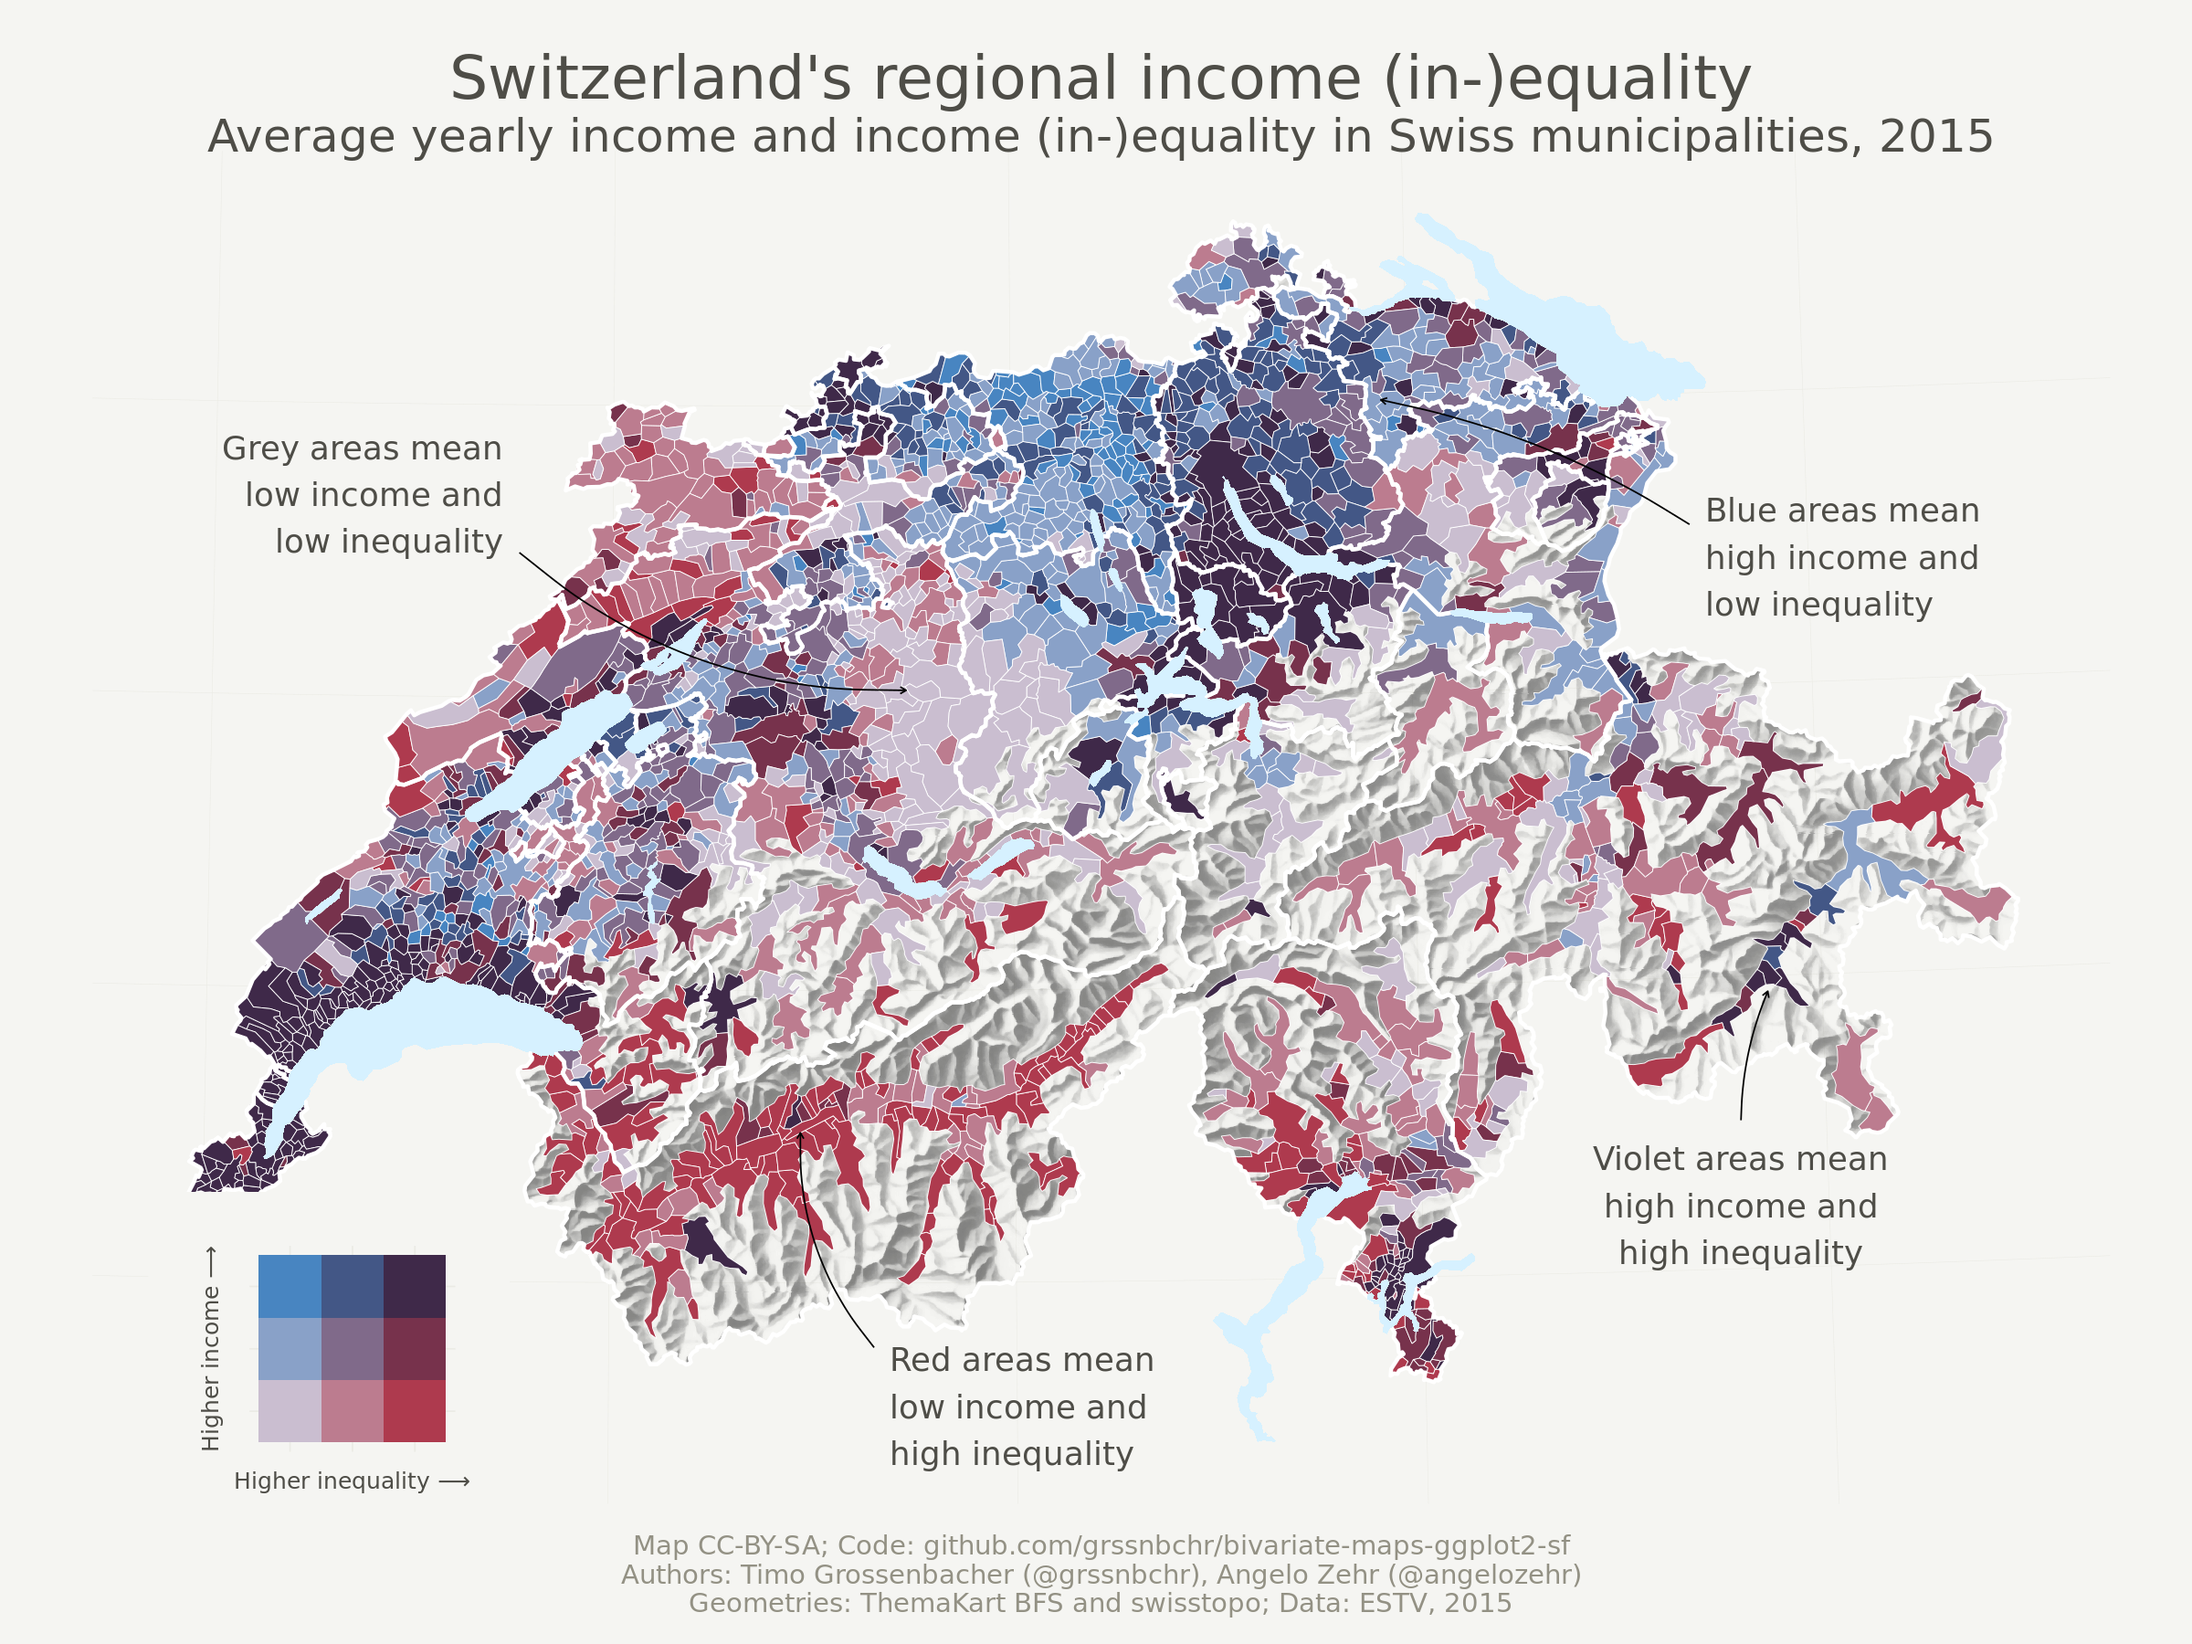
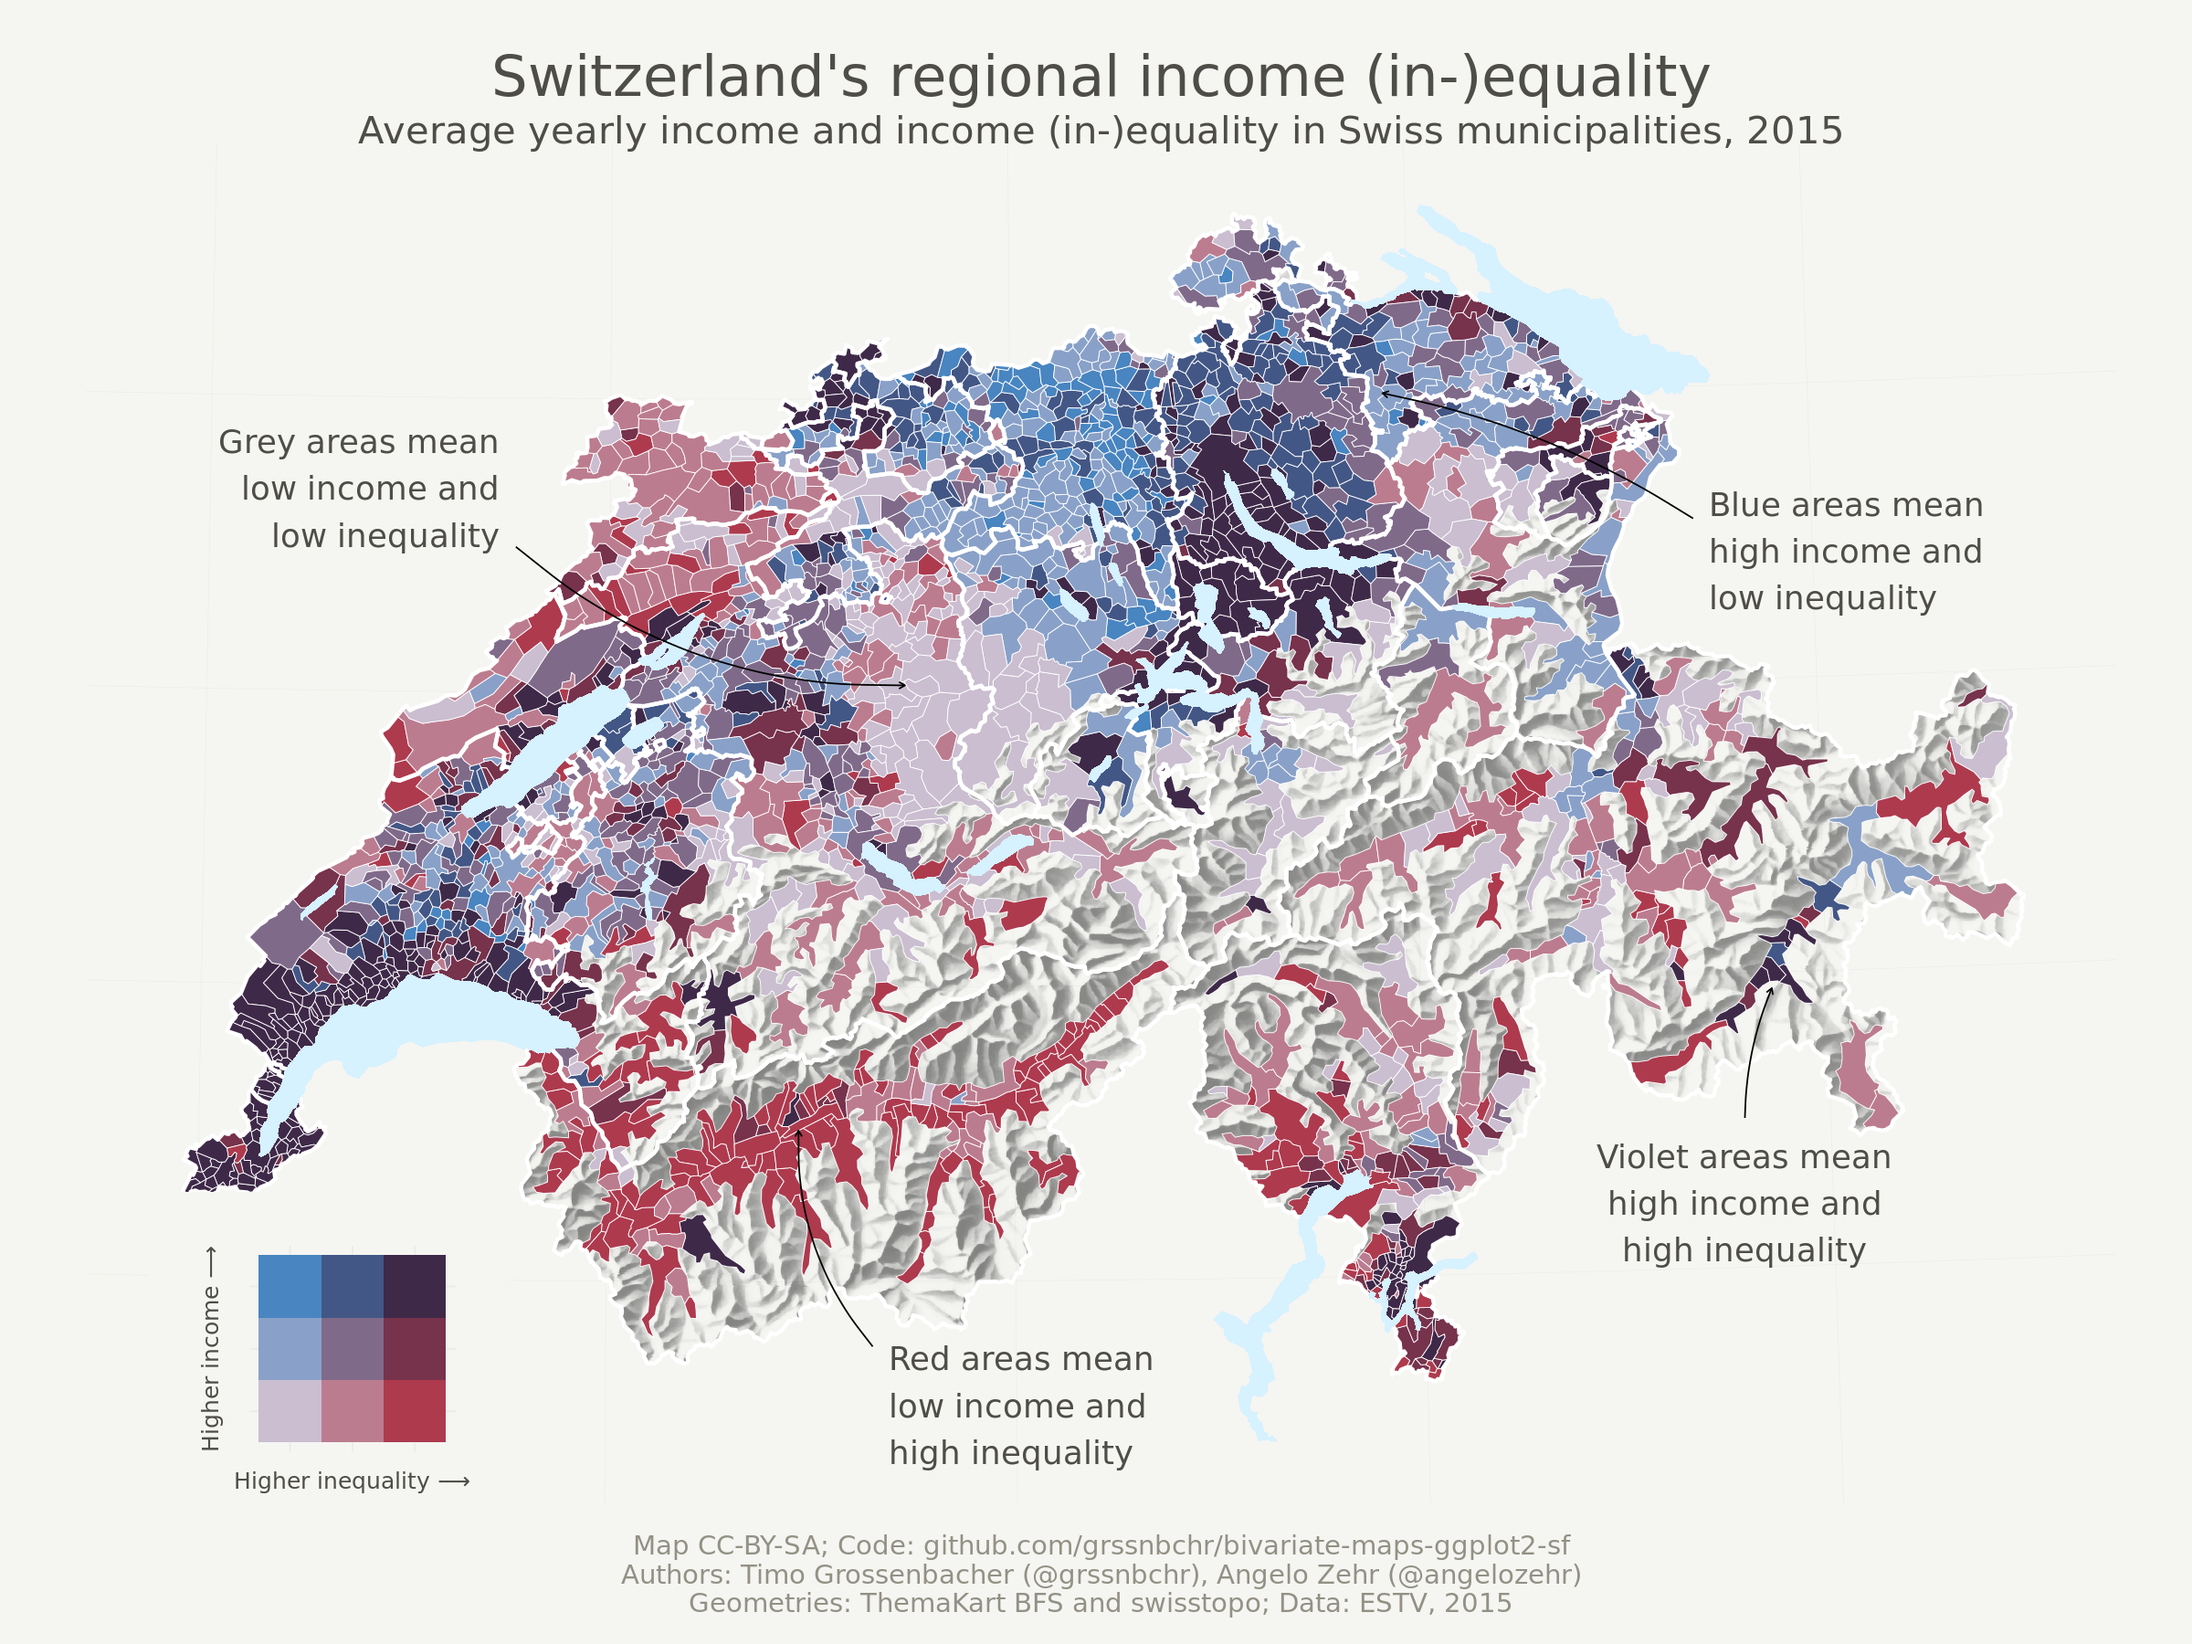
made title smaller

Changed region(s): [[0.0938, 0.1244, 0.9062, 0.84], [0.0938, 0.0311, 0.9062, 0.0933], [0.4062, 0.8089, 0.5312, 0.9022]]

diff --git a/analysis/index.md b/analysis/index.md
@@ -85,7 +85,7 @@ from <https://github.com/grssnbchr/bivariate-maps-ggplot2-sf>.
 
 ### Version information {#version-information}
 
-This report was generated on 2019-04-19 11:31:14. R version: 3.5.2 on
+This report was generated on 2019-04-19 13:39:55. R version: 3.5.2 on
 x86\_64-pc-linux-gnu. For this report, CRAN packages as of 2019-03-01
 were used.
 
@@ -358,9 +358,9 @@ theme_map <- function(...) {
     legend.title = element_text(size = 11),
     legend.text = element_text(size = 9, hjust = 0,
                                color = default_font_color),
-    plot.title = element_text(size = 16, hjust = 0.5,
+    plot.title = element_text(size = 15, hjust = 0.5,
                               color = default_font_color),
-    plot.subtitle = element_text(size = 12, hjust = 0.5,
+    plot.subtitle = element_text(size = 10, hjust = 0.5,
                                  color = default_font_color,
                                  margin = margin(b = -0.1,
                                                  t = -0.1,
